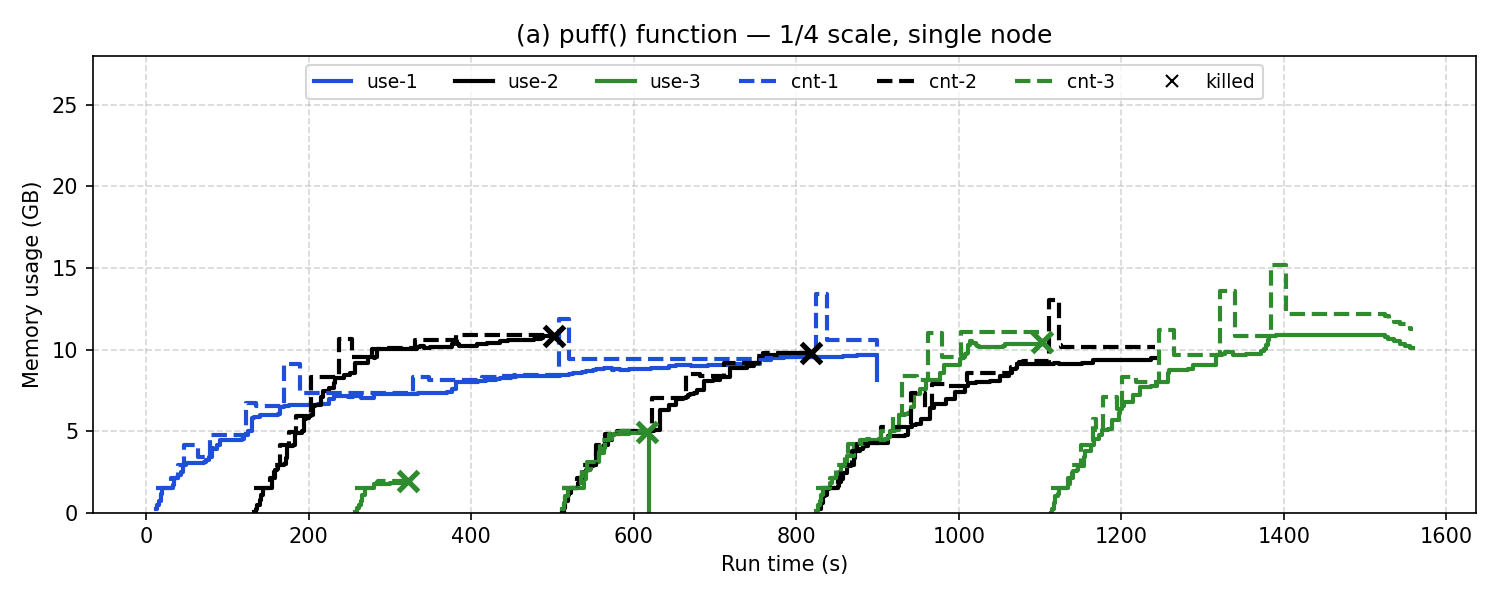
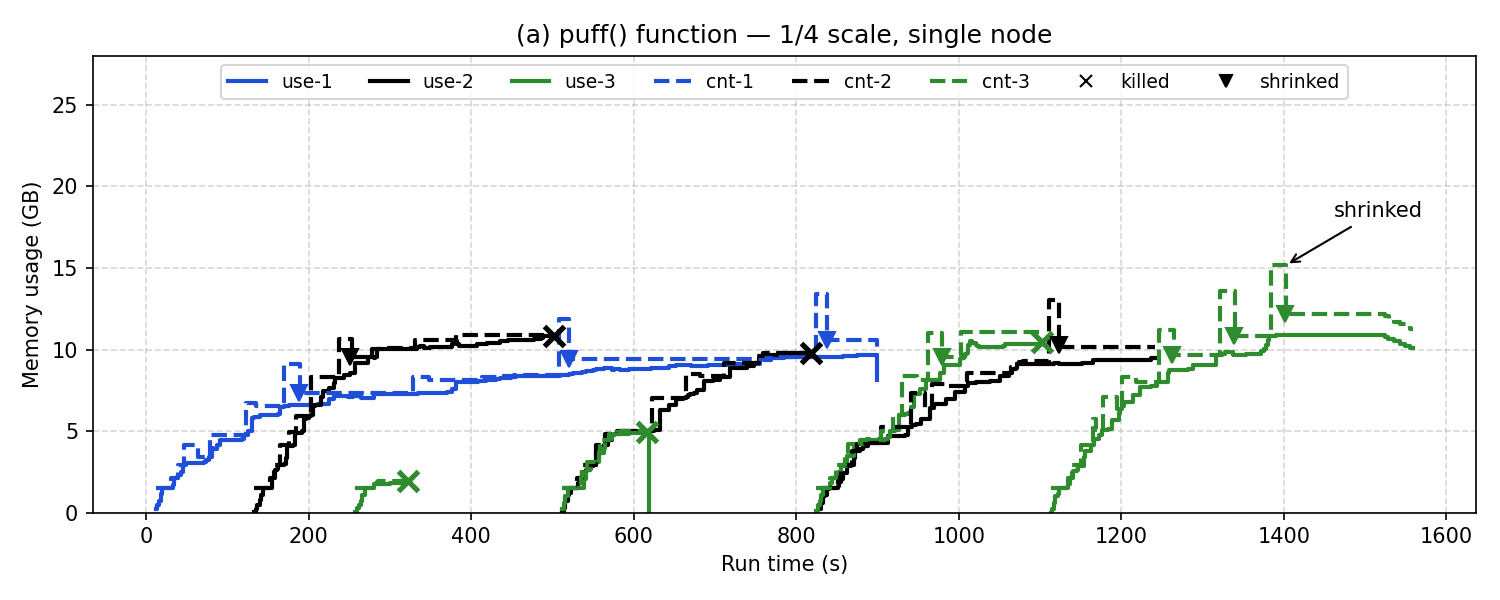
feat: Fig 6(a) 그래프에 shrink 표시 (▼, "shrinked")
- nm.log의 slacking 뒤 크기 감소를 shrink로 표시 — 1GB 이상, 컨테이너 종료 앞뒤 15초 제외 (9번)
- 가장 크게 줄어든 곳에 논문처럼 "shrinked" 글자

diff --git a/original-hadoop2.7/setup/plot-fig6a.py b/original-hadoop2.7/setup/plot-fig6a.py
@@ -2,7 +2,7 @@
 # Fig 6(a) 형식 그래프: job별 executor 컨테이너의 실제 사용량(실선, use-N)과 컨테이너 크기(점선, cnt-N)
 #   입력: fig6a.sh 결과 폴더의 watch.log(2초 간격 cgroup), apps.txt(앱 ID ↔ 이름), events.log(시작 시각)
 #   AM 컨테이너(_000001)는 제외. kill 후 relaunch된 executor는 같은 job 색, 컨테이너마다 선을 끊어 그림
-#   nm.log의 "OOM kill: <컨테이너>" 시점에 × 표시
+#   nm.log의 "OOM kill: <컨테이너>" 시점에 ×, shrink(slacking 뒤 크기 감소 1GB 이상, 종료 직전 제외)에 ▼ 표시
 #   색 3개만 사용 (PPT 서식 규칙), 라벨은 논문 그래프처럼 영어
 # usage: python3 plot-fig6a.py <결과 폴더> [출력 png]
 import re
@@ -46,6 +46,24 @@ for line in open(d + "/nm.log", errors="ignore"):
     if m and m.group(2) in names:
         kills.append(((datetime.strptime(m.group(1), "%H:%M:%S") - t0).total_seconds(), names[m.group(2)], m.group(3)))
 
+# shrink: "slacking contianer detected" 다음 같은 컨테이너의 "update container memory"에서 크기가 줄어든 것
+shrinks = []  # (시각, job, 이전 MB, 이후 MB)
+spat = re.compile(r"^\S+ (\d\d:\d\d:\d\d),\d+ .*slacking contianer detected: container_\d+_(\d+)_01_(\d+)")
+upat = re.compile(r"^\S+ (\d\d:\d\d:\d\d),\d+ .*update container memory: container_\d+_(\d+)_01_(\d+) old: (\d+)new: (\d+)")
+slack = set()
+for line in open(d + "/nm.log", errors="ignore"):
+    m = spat.match(line)
+    if m:
+        slack.add((m.group(2), m.group(3)))
+        continue
+    m = upat.match(line)
+    if m and (m.group(2), m.group(3)) in slack:
+        slack.discard((m.group(2), m.group(3)))
+        old, new = int(m.group(4)), int(m.group(5))
+        if new < old and m.group(2) in names:
+            t = (datetime.strptime(m.group(1), "%H:%M:%S") - t0).total_seconds()
+            shrinks.append((t, names[m.group(2)], old, new))
+
 jobs = [("fig6a-pr", "1", "#1f4fd8"), ("fig6a-km1", "2", "#000000"), ("fig6a-km2", "3", "#2e8b2e")]
 fig, ax = plt.subplots(figsize=(10, 4))
 for kind, ls in (("use", "-"), ("cnt", "--")):
@@ -63,11 +81,26 @@ for t, job, c in kills:
     y = next((u for u in reversed(s["use"]) if u > 0), 0) if s else 0  # kill 직전 사용량
     ax.plot([t], [max(y, 0.3)], marker="x", ms=10, mew=2.5, color=color)
 ax.plot([], [], marker="x", ls="", color="#000000", label="killed")
+# shrink: 줄어든 뒤 크기 위치에 ▼ — 1GB 이상 줄어든 것만, 컨테이너 종료 시각 앞뒤 15초 안(종료 정리)은 제외
+#   가장 크게 줄어든 곳에 논문처럼 "shrinked" 글자
+ends = {}  # job → 그 job 컨테이너들의 종료 시각 목록
+for (j, c), s in series.items():
+    ends.setdefault(j, []).append(s["t"][-1])
+big = [s for s in shrinks if s[2] - s[3] >= 1024
+       and not any(abs(e - s[0]) <= 15 for e in ends.get(s[1], []))]
+for t, job, old, new in big:
+    color = [col for j, _, col in jobs if j == job][0]
+    ax.plot([t], [new / 1024], marker="v", ms=8, color=color)
+if big:
+    t, job, old, new = max(big, key=lambda s: s[2] - s[3])
+    ax.annotate("shrinked", xy=(t, old / 1024), xytext=(t + 60, old / 1024 + 3),
+                arrowprops=dict(arrowstyle="->", color="#000000"), fontsize=10)
+ax.plot([], [], marker="v", ls="", color="#000000", label="shrinked")
 ax.set_xlabel("Run time (s)")
 ax.set_ylabel("Memory usage (GB)")
 ax.set_ylim(0, 28)  # 노드 YARN 메모리 28GB
 ax.grid(True, ls="--", alpha=0.5)
-ax.legend(ncol=7, loc="upper center", fontsize=9)
+ax.legend(ncol=8, loc="upper center", fontsize=9)
 ax.set_title("(a) puff() function — 1/4 scale, single node")
 fig.tight_layout()
 fig.savefig(out, dpi=150)

diff --git a/common/lab-meetings/2026-11-02/README.md b/common/lab-meetings/2026-11-02/README.md
@@ -141,7 +141,7 @@
 
 ### 3-7. ★ Fig 6(a) puff() 재현 — 별도 슬라이드 (논문 그래프와 나란히) [실측, steps/09 §5]
 
-- 그래프: `original-hadoop2.7/x86-server/steps/09-fig6a/fig6a.png` (실선 = 실제 사용량, 점선 = 컨테이너 크기, × = kill)
+- 그래프: `original-hadoop2.7/x86-server/steps/09-fig6a/fig6a.png` (실선 = 실제 사용량, 점선 = 컨테이너 크기, × = kill, ▼ = shrink 1GB 이상 — 실행 중 9번, 논문 그래프의 "shrinked"에 해당)
   - 논문 그래프는 `common/papers/pufferfish-paper.pdf` p.265 Figure 6(a)
 - 구성: PR 1개 → 120초 뒤 KM1 → 120초 뒤 KM2, job마다 Flex executor 1개·1코어·1g, 데이터 1/4
   - 제출 간격 120초는 [우리] (6(a)엔 없음, 같은 절 Fig 7의 값)

diff --git a/original-hadoop2.7/x86-server/steps/09-fig6a-puff.md b/original-hadoop2.7/x86-server/steps/09-fig6a-puff.md
@@ -71,7 +71,7 @@ cat events.log apps.txt                       # job별 종료·성공 여부
 
 ![Fig 6(a) 재현](09-fig6a/fig6a.png)
 
-- 실선 = 실제 사용량(cgroup `memory.usage`), 점선 = 컨테이너 크기(limit), × = kill 시점. 1 = PR, 2 = KM1, 3 = KM2
+- 실선 = 실제 사용량(cgroup `memory.usage`), 점선 = 컨테이너 크기(limit), × = kill 시점, ▼ = shrink(`slacking contianer detected` 뒤 1GB 이상 줄어든 것, 컨테이너 종료 앞뒤 15초 제외 — 9번. 1GB 미만까지 세면 31번). 1 = PR, 2 = KM1, 3 = KM2
 - 원본: `watch.log`(2초 간격), `nm.log`(실행 구간 NM 로그), `events.log`, `apps.txt` (`_0011` PR, `_0012` KM1, `_0013` KM2)
 
 ### job 결과 [실측]
